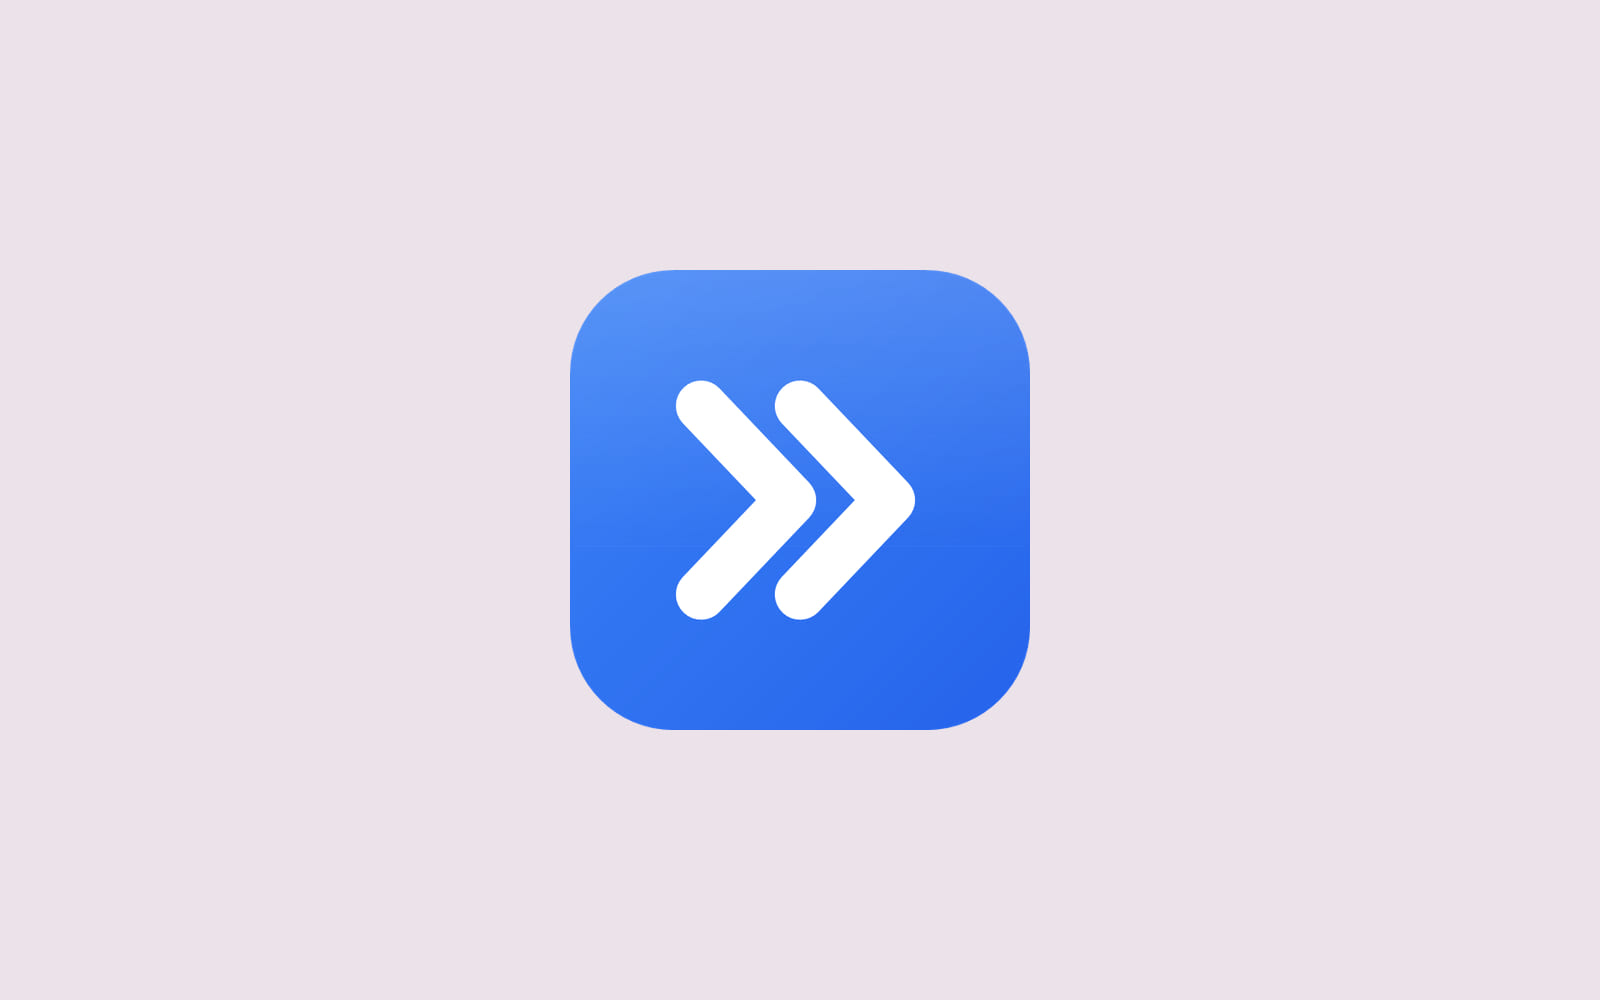
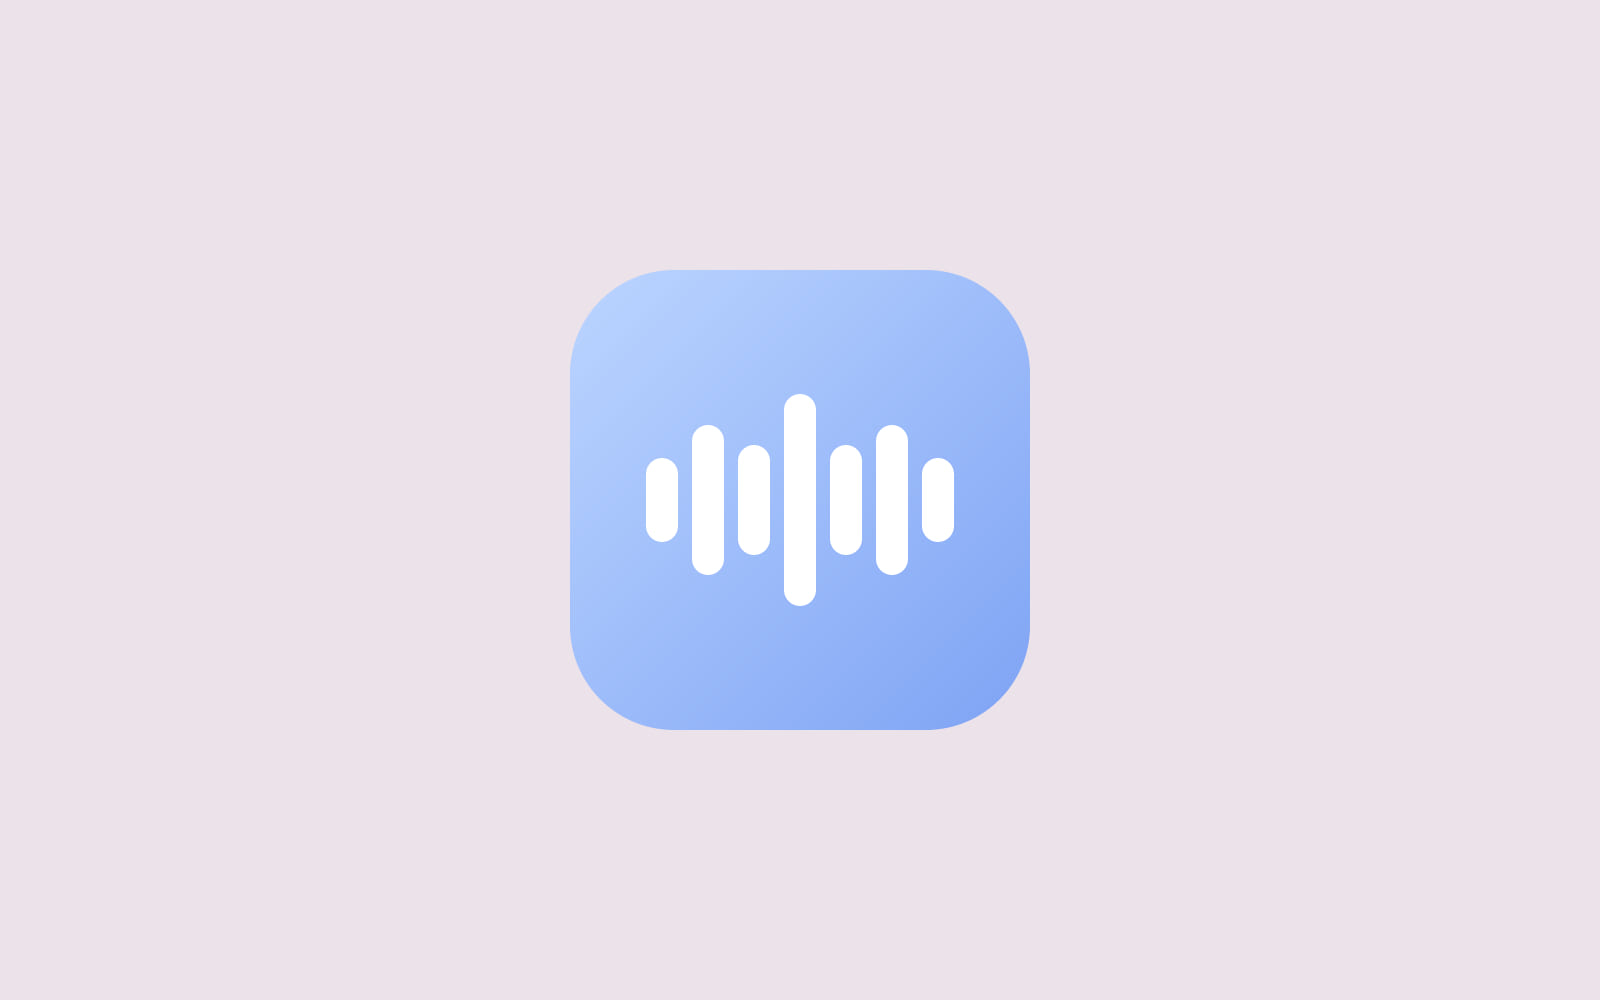
feat(projects): new pictures for Flow and Oxidize

Changed region(s): [[0.3438, 0.248, 0.6562, 0.744]]

diff --git a/src/constants/projects/oxidize.ts b/src/constants/projects/oxidize.ts
@@ -73,7 +73,7 @@ export const oxidize: Record<Language, LocalizedContent> = {
       },
     ],
     captions: [
-      "An uninstall in an elevated terminal: the registered uninstaller confirmed in the registry, the leftovers graded HIGH, MED and LOW, then backed up, quarantined and removed.",
+      "The Oxidize mark: a thick O, copper on one side and the verdigris it oxidises into on the other.",
     ],
     tags: ["Rust", "Windows", "CLI", "egui", "Systems"],
     stats: [
@@ -131,7 +131,7 @@ export const oxidize: Record<Language, LocalizedContent> = {
       },
     ],
     captions: [
-      "Eine Deinstallation in einem Terminal mit Adminrechten: der registrierte Uninstaller in der Registry bestätigt, die Reste als HIGH, MED und LOW eingestuft, dann gesichert, in Quarantäne verschoben und entfernt.",
+      "Das Oxidize-Zeichen: ein dickes O, auf der einen Seite Kupfer, auf der anderen der Grünspan, zu dem es oxidiert.",
     ],
     tags: ["Rust", "Windows", "CLI", "egui", "Systems"],
     stats: [
@@ -189,7 +189,7 @@ export const oxidize: Record<Language, LocalizedContent> = {
       },
     ],
     captions: [
-      "Une désinstallation dans un terminal administrateur : le désinstalleur enregistré confirmé dans le registre, les restes classés HIGH, MED et LOW, puis sauvegardés, mis en quarantaine et supprimés.",
+      "Le logo d'Oxidize : un O épais, cuivre d'un côté, et de l'autre le vert-de-gris en lequel il s'oxyde.",
     ],
     tags: ["Rust", "Windows", "CLI", "egui", "Systems"],
     stats: [
@@ -245,7 +245,7 @@ export const oxidize: Record<Language, LocalizedContent> = {
       },
     ],
     captions: [
-      "在管理员终端里的一次卸载：注册的卸载器已在注册表中确认完成，残留被分为 HIGH、MED 和 LOW，随后备份、隔离并删除。",
+      "Oxidize 的标志：一个粗粗的 O，一半是铜，另一半是它氧化后的铜绿。",
     ],
     tags: ["Rust", "Windows", "CLI", "egui", "Systems"],
     stats: [

diff --git a/src/constants/projects/flow.ts b/src/constants/projects/flow.ts
@@ -80,7 +80,7 @@ export const flow: Record<Language, LocalizedContent> = {
         ],
       },
     ],
-    captions: ["The FLOW app icon: two white chevrons on a rounded blue square."],
+    captions: ["The Flow mark: recorded input drawn as seven soft bars on a blue square, one half mirroring the other."],
     tags: ["C++", "Win32", "GDI+", "Automation", "Low-latency"],
     stats: [
       { value: "3 MB", label: "static exe" },
@@ -142,7 +142,7 @@ export const flow: Record<Language, LocalizedContent> = {
         ],
       },
     ],
-    captions: ["Das App-Icon von FLOW: zwei weisse Winkel auf einem abgerundeten blauen Quadrat."],
+    captions: ["Das Flow-Zeichen: aufgenommene Eingaben als sieben weiche Balken auf einem blauen Quadrat, die eine Hälfte spiegelt die andere."],
     tags: ["C++", "Win32", "GDI+", "Automation", "Low-latency"],
     stats: [
       { value: "3 MB", label: "statische Exe" },
@@ -204,7 +204,7 @@ export const flow: Record<Language, LocalizedContent> = {
         ],
       },
     ],
-    captions: ["L'icône de FLOW : deux chevrons blancs sur un carré bleu aux coins arrondis."],
+    captions: ["Le logo de Flow : des entrées enregistrées dessinées en sept barres arrondies sur un carré bleu, une moitié en miroir de l'autre."],
     tags: ["C++", "Win32", "GDI+", "Automation", "Low-latency"],
     stats: [
       { value: "3 Mo", label: "exe statique" },
@@ -266,7 +266,7 @@ export const flow: Record<Language, LocalizedContent> = {
         ],
       },
     ],
-    captions: ["FLOW 的应用图标：圆角蓝色方块上的两个白色箭头。"],
+    captions: ["Flow 的标志：录下的输入画成蓝色方块上的七根圆润竖条，左右两半互为镜像。"],
     tags: ["C++", "Win32", "GDI+", "Automation", "Low-latency"],
     stats: [
       { value: "3 MB", label: "静态 exe" },

diff --git a/src/constants/projects/index.ts b/src/constants/projects/index.ts
@@ -168,11 +168,7 @@ const PROJECT_BASE: ProjectBase[] = [
     // latest/download breaks on every release. The release page always resolves.
     downloadUrl: "https://github.com/dominikkoenitzer/Oxidize/releases/latest",
     priority: 11,
-    image: "/projects/oxidize.png",
-    // The one shot that is not 1600px wide. Left alone on purpose: it is flat
-    // terminal text, and a lanczos downscale to 1600 turns crisp glyph edges
-    // into gradients that PNG cannot pack, taking the file from 144 kB to 388.
-    imageWidth: 1920,
+    image: "/projects/oxidize.jpg",
     programmingLanguages: ["Rust"],
     operatingSystem: "Windows",
     applicationCategory: "UtilitiesApplication",
